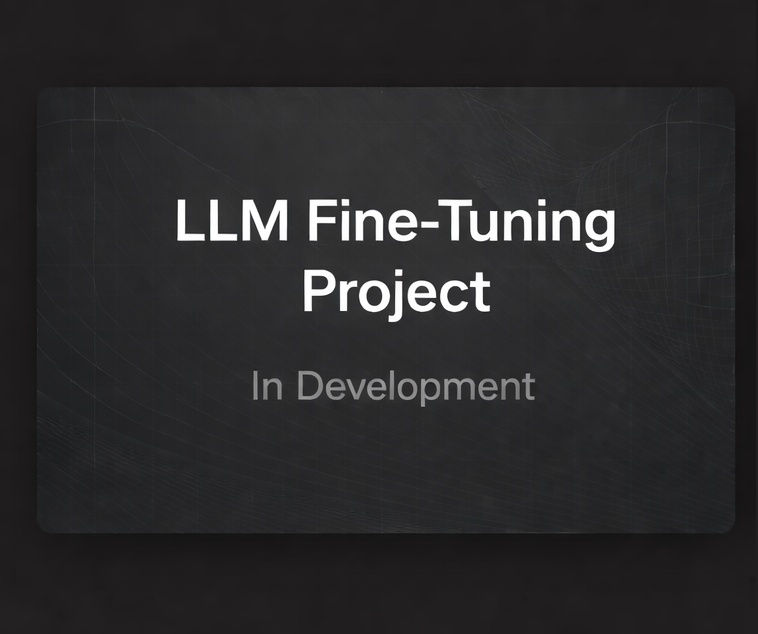
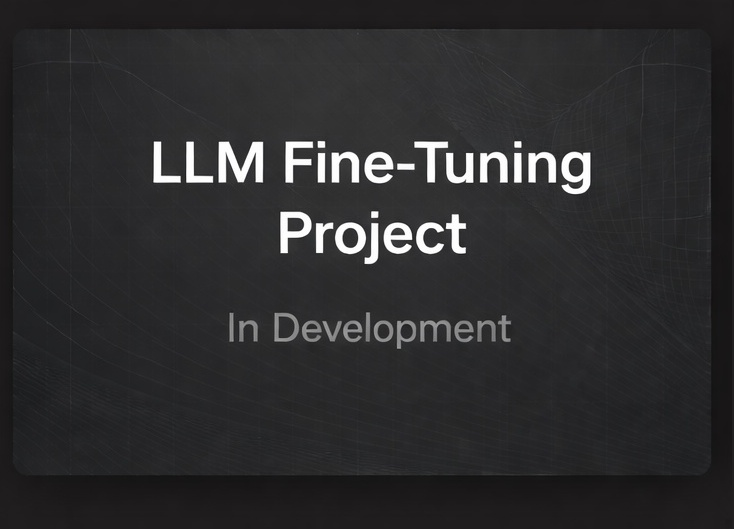
Update project screenshot

diff --git a/pages/projects.js b/pages/projects.js
@@ -66,7 +66,7 @@ export default function Projects() {
           <Link href="/projects/fine-tuning-project" className="group block">
             <div className="space-y-6 rounded-xl border border-gray-800 p-6 hover:border-gray-600 transition">
               <img
-                src="/placeholders/fine-tune-preview.png"
+                src="/screenshots/heroproject3.jpg"
                 alt="Fine-Tuning Project Screenshot"
                 className="rounded-lg w-full"
               />
@@ -90,7 +90,7 @@ export default function Projects() {
           <Link href="/projects/ai-middleware" className="group block">
             <div className="space-y-6 rounded-xl border border-gray-800 p-6 hover:border-gray-600 transition">
               <img
-                src="/placeholders/middleware-preview.png"
+                src="/screenshots/heroproject4.jpg"
                 alt="AI Middleware Screenshot"
                 className="rounded-lg w-full"
               />
